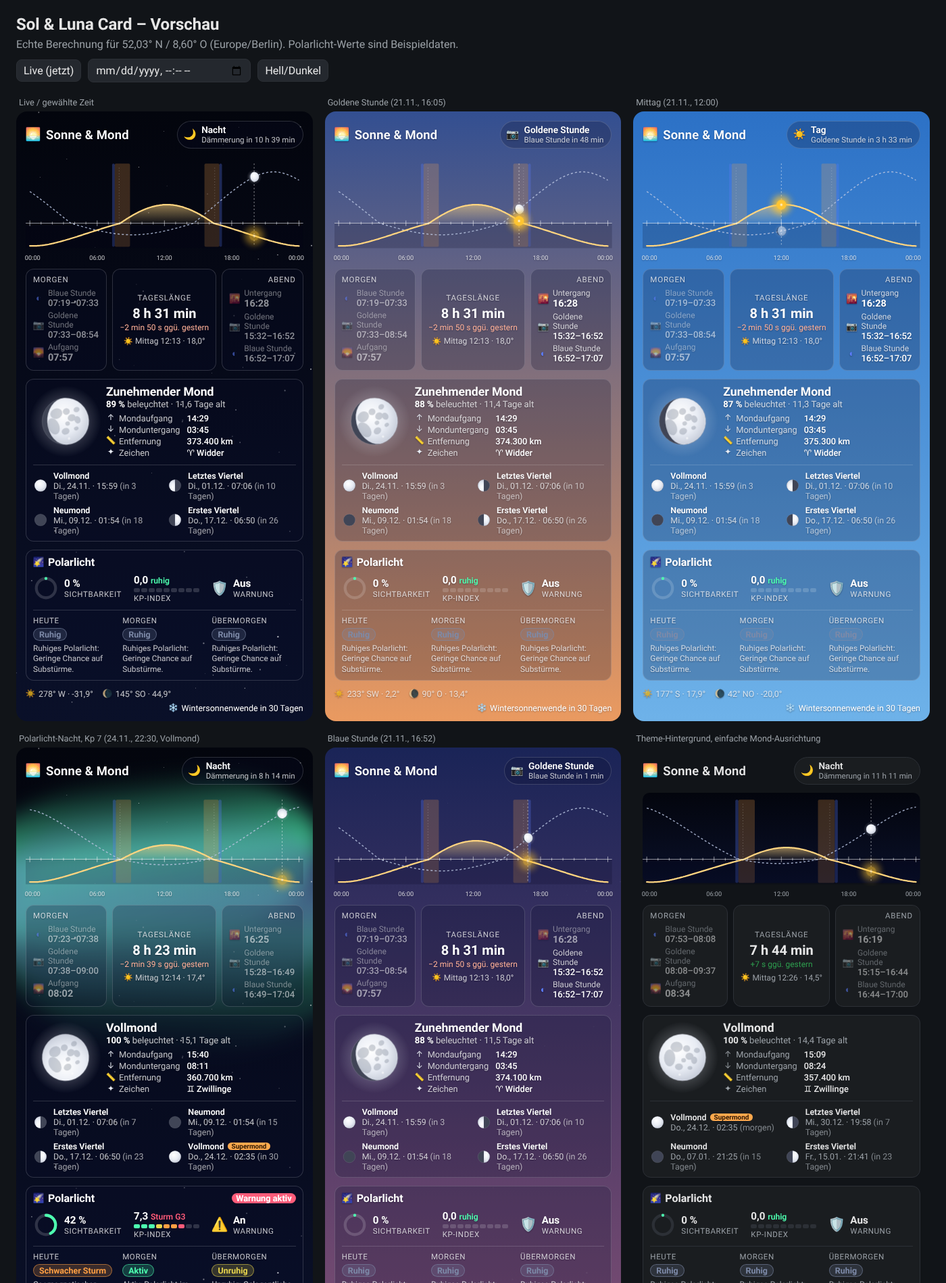
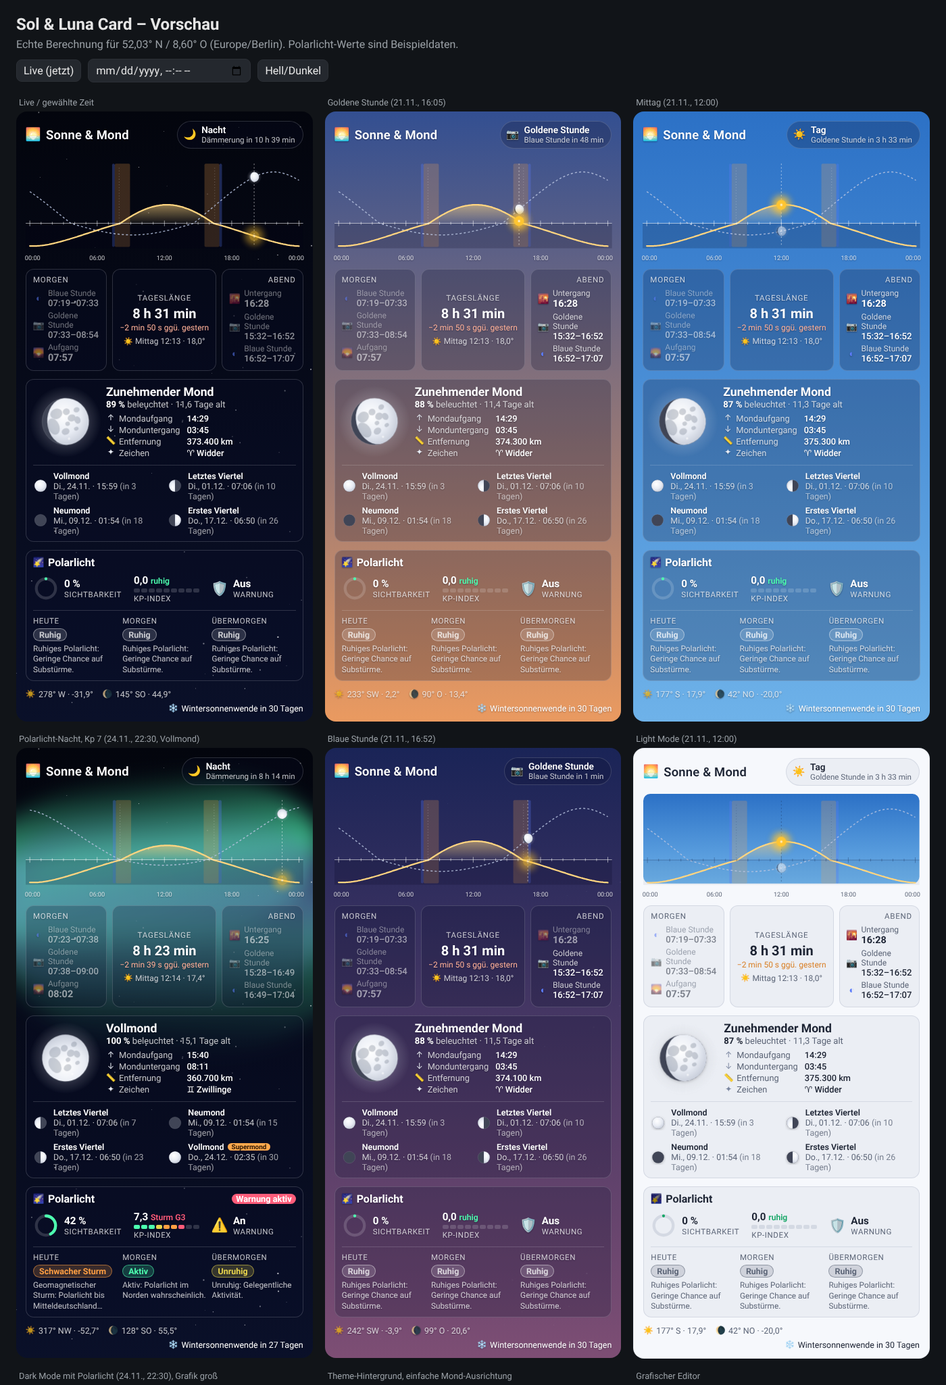
v1.1.0: Light- und Dark-Mode, Grafik-Größe, Himmelsverlauf und Auf-/Untergangslinien einstellbar
Claude-Session: https://claude.ai/code/session_01QFZMPRo5ZdLNuL4hiKKXFC

diff --git a/preview.html b/preview.html
@@ -27,7 +27,7 @@ customElements.define('ha-icon', class extends HTMLElement { static get observed
 (() => {
 'use strict';
 
-const VERSION = '1.0.0';
+const VERSION = '1.1.0';
 
 /* ====================================================================== *
  *  ASTRONOMIE                                                             *
@@ -246,7 +246,10 @@ const DEFAULTS = {
   show_next_phases: true,
   show_position: true,
   show_season: true,
-  background: 'sky',          // sky | theme
+  background: 'sky',          // sky | theme | light | dark
+  graph_size: 'normal',       // small | normal | large
+  graph_sky: true,            // Himmelsverlauf in der Grafik (bei theme/light/dark)
+  show_rise_lines: true,
   stars: true,
   animations: true,
   moon_orientation: 'sky',    // sky | simple
@@ -551,7 +554,8 @@ class SolLunaCard extends HTMLElement {
     const c = this._config;
     const { t } = this._lang();
     const F = this._fmt(D);
-    const sky = c.background !== 'theme';
+    const mode = ['sky', 'theme', 'light', 'dark'].includes(c.background) ? c.background : 'sky';
+    const sky = mode === 'sky';
     const [skyTop, skyBottom] = skyColors(D.sunNow.alt);
     const night = clamp((-D.sunNow.alt - 3) / 9, 0, 1);
     const anim = c.animations;
@@ -570,13 +574,13 @@ class SolLunaCard extends HTMLElement {
     const footer = (c.show_position || c.show_season) ? this._footerHtml(D, t, F) : '';
     const A = this._auroraData();
     const aurora = A ? this._auroraHtml(A, t, F) : '';
-    const auroraSky = A && sky && c.aurora_effect ? this._auroraSkyHtml(this._auroraIntensity(A), night) : '';
+    const auroraSky = A && (sky || mode === 'dark') && c.aurora_effect ? this._auroraSkyHtml(this._auroraIntensity(A) * (sky ? 1 : 0.7), night) : '';
 
-    const stars = sky && c.stars && night > 0 ? this._starsHtml(night, anim) : '';
+    const stars = (sky || mode === 'dark') && c.stars && night > 0 ? this._starsHtml(night * (sky ? 1 : 0.5), anim) : '';
 
     this.shadowRoot.innerHTML = `
       <style>${this._css()}</style>
-      <ha-card class="${sky ? 'sky' : 'theme'} ${anim ? 'anim' : ''}" style="
+      <ha-card class="${mode} ${anim ? 'anim' : ''}" style="
         --slc-sun:${esc(c.sun_color)}; --slc-moon:${esc(c.moon_color)}; --slc-golden:${esc(c.golden_color)};
         --slc-blue:${esc(c.blue_color)}; --slc-curve:${esc(c.curve_color)}; --slc-aurora:${esc(c.aurora_color)};
         ${sky ? `--slc-sky-top:${skyTop}; --slc-sky-bottom:${skyBottom};` : ''}">
@@ -724,7 +728,9 @@ class SolLunaCard extends HTMLElement {
 
   _graphHtml(D, t, F, sky, rot) {
     const c = this._config;
-    const W = 400, H = 150, padX = 6, top = 16, above = 80, below = 34;
+    const above = { small: 52, normal: 80, large: 110 }[c.graph_size] || 80;
+    const below = Math.round(above * 0.42);
+    const W = 400, padX = 6, top = 16, H = top + above + below + 20;
     const hy = top + above;
     const span = D.end - D.start;
     const x = (ms) => padX + (ms - D.start) / span * (W - 2 * padX);
@@ -770,11 +776,11 @@ class SolLunaCard extends HTMLElement {
     const sx = nowX, syv = y(D.sunNow.alt);
     const sunUp = D.sunNow.alt > -0.833;
     const mx = nowX, myv = y(D.moonNow.altTopo);
-    const lines = [D.sunrise, D.sunset].filter((v) => v != null).map((v) =>
+    const lines = !c.show_rise_lines ? '' : [D.sunrise, D.sunset].filter((v) => v != null).map((v) =>
       `<line x1="${x(v)}" x2="${x(v)}" y1="${top}" y2="${hy}" class="riseline"/>`).join('');
 
     const [st, sb] = skyColors(D.sunNow.alt);
-    const chartBg = sky ? '' : `<rect x="0" y="0" width="${W}" height="${hy + below}" rx="10" fill="url(#bgsky)"/>`;
+    const chartBg = sky || !c.graph_sky ? '' : `<rect x="0" y="0" width="${W}" height="${hy + below}" rx="10" fill="url(#bgsky)"/>`;
 
     return `
     <div class="graph">
@@ -926,6 +932,13 @@ class SolLunaCard extends HTMLElement {
     ha-card.sky { color:#fff; --slc-text:#fff; --slc-sub:rgba(255,255,255,.75); --slc-tile:rgba(8,14,40,.24); --slc-line:rgba(255,255,255,.16);
       text-shadow:0 1px 2px rgba(0,0,20,.35); border:none; background:transparent; }
     ha-card.theme { --slc-text:var(--primary-text-color); --slc-sub:var(--secondary-text-color); --slc-tile:rgba(127,127,127,.09); --slc-line:var(--divider-color, rgba(127,127,127,.25)); }
+    ha-card.light { --slc-text:#1c2333; --slc-sub:#5d6678; --slc-tile:rgba(30,50,90,.05); --slc-line:rgba(30,50,90,.11);
+      background:#f6f8fc; color:#1c2333; border:1px solid rgba(30,50,90,.08); }
+    ha-card.dark { --slc-text:#eef1f8; --slc-sub:#9aa3b8; --slc-tile:rgba(255,255,255,.045); --slc-line:rgba(255,255,255,.09);
+      background:#131722; color:#eef1f8; border:1px solid rgba(255,255,255,.05); }
+    .light .graph .horizon, .light .graph .tick { stroke:rgba(30,50,90,.35); }
+    .light .graph .nowline { stroke:rgba(30,50,90,.45); }
+    .light .graph .riseline { stroke:rgba(30,50,90,.25); }
     .skybg { position:absolute; inset:0; background:linear-gradient(180deg, var(--slc-sky-top) 0%, var(--slc-sky-bottom) 100%); transition:background 2s; }
     .stars { position:absolute; inset:0; pointer-events:none; }
     .stars circle { fill:#fff; }
@@ -950,7 +963,7 @@ class SolLunaCard extends HTMLElement {
     @keyframes pulse { 0%,100%{box-shadow:0 0 0 0 rgba(255,169,77,.0)} 50%{box-shadow:0 0 14px 2px rgba(255,169,77,.45)} }
     .graph svg { width:100%; display:block; overflow:visible; }
     .graph .below { fill:rgba(0,0,20,.18); }
-    .theme .graph .below { fill:rgba(0,0,20,.25); }
+    .theme .graph .below, .dark .graph .below { fill:rgba(0,0,20,.25); } .light .graph .below { fill:rgba(30,50,90,.06); }
     .graph .horizon { stroke:rgba(255,255,255,.55); stroke-width:1; }
     .graph .tick { stroke:rgba(255,255,255,.55); stroke-width:1; }
     .graph .axis { fill:var(--slc-sub); font-size:9px; text-anchor:middle; }
@@ -976,7 +989,9 @@ class SolLunaCard extends HTMLElement {
     .mid .big { font-size:1.25em; font-weight:700; color:var(--slc-text); white-space:nowrap; }
     .mid .delta { font-size:.75em; margin-top:2px; white-space:nowrap; }
     .mid .delta.up { color:#8ef0a8; } .mid .delta.down { color:#ffb199; }
-    .theme .mid .delta.up { color:var(--success-color, #2e9d4e); } .theme .mid .delta.down { color:var(--warning-color, #d9822b); }
+    .theme .mid .delta.up, .light .mid .delta.up { color:var(--success-color, #2e9d4e); } .theme .mid .delta.down, .light .mid .delta.down { color:var(--warning-color, #d9822b); }
+    .light .badge.micro { background:rgba(30,50,90,.15); }
+    .light .kpw, .light .ringfg, .light .ahead ha-icon { filter:brightness(.62) saturate(1.3); }
     .mid .noon { display:flex; align-items:center; gap:4px; font-size:.75em; color:var(--slc-sub); margin-top:6px; white-space:nowrap; }
     .mid .noon ha-icon { --mdc-icon-size:13px; width:13px; height:13px; color:var(--slc-sun); }
     .moonrow { display:flex; gap:12px; align-items:center; }
@@ -991,7 +1006,8 @@ class SolLunaCard extends HTMLElement {
     .grid2 > div:nth-child(odd) { display:flex; align-items:center; gap:5px; color:var(--slc-sub); }
     .grid2 .v { font-variant-numeric:tabular-nums; font-weight:500; color:var(--slc-text); }
     .grid2 ha-icon { --mdc-icon-size:14px; width:14px; height:14px; color:var(--slc-moon); }
-    .theme .grid2 ha-icon { color:var(--secondary-text-color); }
+    .theme .grid2 ha-icon { color:var(--secondary-text-color); } .light .grid2 ha-icon { color:#7a86a0; }
+    .light .phaseicon circle:first-of-type, .light .bigmoon { filter:drop-shadow(0 1px 2px rgba(0,0,0,.25)); }
     .dim { opacity:.6; font-weight:400; }
     .phases { display:grid; grid-template-columns:1fr 1fr; gap:6px 10px; margin-top:10px; padding-top:8px; border-top:1px solid var(--slc-line); }
     .ph { display:flex; align-items:center; gap:8px; font-size:.78em; min-width:0; }
@@ -1058,7 +1074,9 @@ const ED_STR = {
     show_moon_in_graph: 'Mondbahn in der Grafik', show_hour_bands: 'Goldene/Blaue Stunde markieren',
     show_sun_times: 'Sonnenzeiten & Tageslänge', show_moon: 'Mond-Details', show_next_phases: 'Nächste Mondphasen',
     show_position: 'Azimut & Höhe', show_season: 'Nächste Sonnenwende/Tagundnachtgleiche',
-    background: 'Hintergrund', bg_sky: 'Dynamischer Himmel', bg_theme: 'Theme-Hintergrund',
+    background: 'Hintergrund', bg_sky: 'Dynamischer Himmel', bg_theme: 'Theme-Hintergrund', bg_light: 'Hell (Light Mode)', bg_dark: 'Dunkel (Dark Mode)',
+    graph_size: 'Grafik-Größe', gs_small: 'Klein', gs_normal: 'Normal', gs_large: 'Groß',
+    graph_sky: 'Himmelsverlauf in der Grafik (bei Theme/Hell/Dunkel)', show_rise_lines: 'Linien bei Auf-/Untergang',
     stars: 'Sterne bei Nacht', animations: 'Animationen', moon_orientation: 'Mond-Ausrichtung',
     mo_sky: 'Wie am Himmel (gedreht)', mo_simple: 'Einfach (links/rechts)',
     sun_color: 'Sonne', moon_color: 'Mond', golden_color: 'Goldene Stunde', blue_color: 'Blaue Stunde',
@@ -1079,7 +1097,9 @@ const ED_STR = {
     show_moon_in_graph: 'Moon path in graph', show_hour_bands: 'Highlight golden/blue hour',
     show_sun_times: 'Sun times & day length', show_moon: 'Moon details', show_next_phases: 'Next moon phases',
     show_position: 'Azimuth & elevation', show_season: 'Next solstice/equinox',
-    background: 'Background', bg_sky: 'Dynamic sky', bg_theme: 'Theme background',
+    background: 'Background', bg_sky: 'Dynamic sky', bg_theme: 'Theme background', bg_light: 'Light mode', bg_dark: 'Dark mode',
+    graph_size: 'Graph size', gs_small: 'Small', gs_normal: 'Normal', gs_large: 'Large',
+    graph_sky: 'Sky gradient in graph (theme/light/dark)', show_rise_lines: 'Sunrise/sunset lines',
     stars: 'Stars at night', animations: 'Animations', moon_orientation: 'Moon orientation',
     mo_sky: 'As seen in the sky (rotated)', mo_simple: 'Simple (left/right)',
     sun_color: 'Sun', moon_color: 'Moon', golden_color: 'Golden hour', blue_color: 'Blue hour',
@@ -1156,8 +1176,10 @@ class SolLunaCardEditor extends HTMLElement {
         sel('time_format', [['auto', T.auto], ['24', '24 h'], ['12', '12 h']]) +
         num('refresh_period', '1', '60'), true)}
       ${sec(T.display, ['show_header', 'show_status', 'show_graph', 'show_moon_in_graph', 'show_hour_bands', 'show_sun_times', 'show_moon', 'show_next_phases', 'show_position', 'show_season'].map(sw).join(''))}
-      ${sec(T.design, sel('background', [['sky', T.bg_sky], ['theme', T.bg_theme]]) +
-        sel('moon_orientation', [['sky', T.mo_sky], ['simple', T.mo_simple]]) + sw('stars') + sw('animations'))}
+      ${sec(T.design, sel('background', [['sky', T.bg_sky], ['light', T.bg_light], ['dark', T.bg_dark], ['theme', T.bg_theme]]) +
+        sel('graph_size', [['small', T.gs_small], ['normal', T.gs_normal], ['large', T.gs_large]]) +
+        sel('moon_orientation', [['sky', T.mo_sky], ['simple', T.mo_simple]]) + `<span></span>` +
+        sw('graph_sky') + sw('show_rise_lines') + sw('stars') + sw('animations'))}
       ${sec(T.aurora, sw('show_aurora') + sw('aurora_effect') + AUR.map(ent).join('') + `<div class="hint">${esc(T.auroraHint)}</div>`)}
       ${sec(T.colors, ['sun_color', 'moon_color', 'golden_color', 'blue_color', 'curve_color', 'moon_curve_color', 'aurora_color'].map(col).join(''))}
       <datalist id="entlist"></datalist>
@@ -1240,6 +1262,8 @@ const DEMOS=[
  {cap:'Mittag (21.11., 12:00)', now:'2026-11-21T12:00:00+01:00', cfg:{}, aur:QUIET},
  {cap:'Polarlicht-Nacht, Kp 7 (24.11., 22:30, Vollmond)', now:'2026-11-24T22:30:00+01:00', cfg:{}, aur:STORM},
  {cap:'Blaue Stunde (21.11., 16:52)', now:'2026-11-21T16:52:00+01:00', cfg:{}, aur:QUIET},
+ {cap:'Light Mode (21.11., 12:00)', now:'2026-11-21T12:00:00+01:00', cfg:{background:'light'}, aur:QUIET},
+ {cap:'Dark Mode mit Polarlicht (24.11., 22:30), Grafik groß', now:'2026-11-24T22:30:00+01:00', cfg:{background:'dark',graph_size:'large'}, aur:STORM},
  {cap:'Theme-Hintergrund, einfache Mond-Ausrichtung', now:'2026-12-23T20:00:00+01:00', cfg:{background:'theme',moon_orientation:'simple'}, aur:QUIET},
 ];
 const grid=document.getElementById('grid'); const cards=[];

diff --git a/dist/sol-luna-card.js b/dist/sol-luna-card.js
@@ -5,7 +5,7 @@
 (() => {
 'use strict';
 
-const VERSION = '1.0.0';
+const VERSION = '1.1.0';
 
 /* ====================================================================== *
  *  ASTRONOMIE                                                             *
@@ -224,7 +224,10 @@ const DEFAULTS = {
   show_next_phases: true,
   show_position: true,
   show_season: true,
-  background: 'sky',          // sky | theme
+  background: 'sky',          // sky | theme | light | dark
+  graph_size: 'normal',       // small | normal | large
+  graph_sky: true,            // Himmelsverlauf in der Grafik (bei theme/light/dark)
+  show_rise_lines: true,
   stars: true,
   animations: true,
   moon_orientation: 'sky',    // sky | simple
@@ -529,7 +532,8 @@ class SolLunaCard extends HTMLElement {
     const c = this._config;
     const { t } = this._lang();
     const F = this._fmt(D);
-    const sky = c.background !== 'theme';
+    const mode = ['sky', 'theme', 'light', 'dark'].includes(c.background) ? c.background : 'sky';
+    const sky = mode === 'sky';
     const [skyTop, skyBottom] = skyColors(D.sunNow.alt);
     const night = clamp((-D.sunNow.alt - 3) / 9, 0, 1);
     const anim = c.animations;
@@ -548,13 +552,13 @@ class SolLunaCard extends HTMLElement {
     const footer = (c.show_position || c.show_season) ? this._footerHtml(D, t, F) : '';
     const A = this._auroraData();
     const aurora = A ? this._auroraHtml(A, t, F) : '';
-    const auroraSky = A && sky && c.aurora_effect ? this._auroraSkyHtml(this._auroraIntensity(A), night) : '';
+    const auroraSky = A && (sky || mode === 'dark') && c.aurora_effect ? this._auroraSkyHtml(this._auroraIntensity(A) * (sky ? 1 : 0.7), night) : '';
 
-    const stars = sky && c.stars && night > 0 ? this._starsHtml(night, anim) : '';
+    const stars = (sky || mode === 'dark') && c.stars && night > 0 ? this._starsHtml(night * (sky ? 1 : 0.5), anim) : '';
 
     this.shadowRoot.innerHTML = `
       <style>${this._css()}</style>
-      <ha-card class="${sky ? 'sky' : 'theme'} ${anim ? 'anim' : ''}" style="
+      <ha-card class="${mode} ${anim ? 'anim' : ''}" style="
         --slc-sun:${esc(c.sun_color)}; --slc-moon:${esc(c.moon_color)}; --slc-golden:${esc(c.golden_color)};
         --slc-blue:${esc(c.blue_color)}; --slc-curve:${esc(c.curve_color)}; --slc-aurora:${esc(c.aurora_color)};
         ${sky ? `--slc-sky-top:${skyTop}; --slc-sky-bottom:${skyBottom};` : ''}">
@@ -702,7 +706,9 @@ class SolLunaCard extends HTMLElement {
 
   _graphHtml(D, t, F, sky, rot) {
     const c = this._config;
-    const W = 400, H = 150, padX = 6, top = 16, above = 80, below = 34;
+    const above = { small: 52, normal: 80, large: 110 }[c.graph_size] || 80;
+    const below = Math.round(above * 0.42);
+    const W = 400, padX = 6, top = 16, H = top + above + below + 20;
     const hy = top + above;
     const span = D.end - D.start;
     const x = (ms) => padX + (ms - D.start) / span * (W - 2 * padX);
@@ -748,11 +754,11 @@ class SolLunaCard extends HTMLElement {
     const sx = nowX, syv = y(D.sunNow.alt);
     const sunUp = D.sunNow.alt > -0.833;
     const mx = nowX, myv = y(D.moonNow.altTopo);
-    const lines = [D.sunrise, D.sunset].filter((v) => v != null).map((v) =>
+    const lines = !c.show_rise_lines ? '' : [D.sunrise, D.sunset].filter((v) => v != null).map((v) =>
       `<line x1="${x(v)}" x2="${x(v)}" y1="${top}" y2="${hy}" class="riseline"/>`).join('');
 
     const [st, sb] = skyColors(D.sunNow.alt);
-    const chartBg = sky ? '' : `<rect x="0" y="0" width="${W}" height="${hy + below}" rx="10" fill="url(#bgsky)"/>`;
+    const chartBg = sky || !c.graph_sky ? '' : `<rect x="0" y="0" width="${W}" height="${hy + below}" rx="10" fill="url(#bgsky)"/>`;
 
     return `
     <div class="graph">
@@ -904,6 +910,13 @@ class SolLunaCard extends HTMLElement {
     ha-card.sky { color:#fff; --slc-text:#fff; --slc-sub:rgba(255,255,255,.75); --slc-tile:rgba(8,14,40,.24); --slc-line:rgba(255,255,255,.16);
       text-shadow:0 1px 2px rgba(0,0,20,.35); border:none; background:transparent; }
     ha-card.theme { --slc-text:var(--primary-text-color); --slc-sub:var(--secondary-text-color); --slc-tile:rgba(127,127,127,.09); --slc-line:var(--divider-color, rgba(127,127,127,.25)); }
+    ha-card.light { --slc-text:#1c2333; --slc-sub:#5d6678; --slc-tile:rgba(30,50,90,.05); --slc-line:rgba(30,50,90,.11);
+      background:#f6f8fc; color:#1c2333; border:1px solid rgba(30,50,90,.08); }
+    ha-card.dark { --slc-text:#eef1f8; --slc-sub:#9aa3b8; --slc-tile:rgba(255,255,255,.045); --slc-line:rgba(255,255,255,.09);
+      background:#131722; color:#eef1f8; border:1px solid rgba(255,255,255,.05); }
+    .light .graph .horizon, .light .graph .tick { stroke:rgba(30,50,90,.35); }
+    .light .graph .nowline { stroke:rgba(30,50,90,.45); }
+    .light .graph .riseline { stroke:rgba(30,50,90,.25); }
     .skybg { position:absolute; inset:0; background:linear-gradient(180deg, var(--slc-sky-top) 0%, var(--slc-sky-bottom) 100%); transition:background 2s; }
     .stars { position:absolute; inset:0; pointer-events:none; }
     .stars circle { fill:#fff; }
@@ -928,7 +941,7 @@ class SolLunaCard extends HTMLElement {
     @keyframes pulse { 0%,100%{box-shadow:0 0 0 0 rgba(255,169,77,.0)} 50%{box-shadow:0 0 14px 2px rgba(255,169,77,.45)} }
     .graph svg { width:100%; display:block; overflow:visible; }
     .graph .below { fill:rgba(0,0,20,.18); }
-    .theme .graph .below { fill:rgba(0,0,20,.25); }
+    .theme .graph .below, .dark .graph .below { fill:rgba(0,0,20,.25); } .light .graph .below { fill:rgba(30,50,90,.06); }
     .graph .horizon { stroke:rgba(255,255,255,.55); stroke-width:1; }
     .graph .tick { stroke:rgba(255,255,255,.55); stroke-width:1; }
     .graph .axis { fill:var(--slc-sub); font-size:9px; text-anchor:middle; }
@@ -954,7 +967,9 @@ class SolLunaCard extends HTMLElement {
     .mid .big { font-size:1.25em; font-weight:700; color:var(--slc-text); white-space:nowrap; }
     .mid .delta { font-size:.75em; margin-top:2px; white-space:nowrap; }
     .mid .delta.up { color:#8ef0a8; } .mid .delta.down { color:#ffb199; }
-    .theme .mid .delta.up { color:var(--success-color, #2e9d4e); } .theme .mid .delta.down { color:var(--warning-color, #d9822b); }
+    .theme .mid .delta.up, .light .mid .delta.up { color:var(--success-color, #2e9d4e); } .theme .mid .delta.down, .light .mid .delta.down { color:var(--warning-color, #d9822b); }
+    .light .badge.micro { background:rgba(30,50,90,.15); }
+    .light .kpw, .light .ringfg, .light .ahead ha-icon { filter:brightness(.62) saturate(1.3); }
     .mid .noon { display:flex; align-items:center; gap:4px; font-size:.75em; color:var(--slc-sub); margin-top:6px; white-space:nowrap; }
     .mid .noon ha-icon { --mdc-icon-size:13px; width:13px; height:13px; color:var(--slc-sun); }
     .moonrow { display:flex; gap:12px; align-items:center; }
@@ -969,7 +984,8 @@ class SolLunaCard extends HTMLElement {
     .grid2 > div:nth-child(odd) { display:flex; align-items:center; gap:5px; color:var(--slc-sub); }
     .grid2 .v { font-variant-numeric:tabular-nums; font-weight:500; color:var(--slc-text); }
     .grid2 ha-icon { --mdc-icon-size:14px; width:14px; height:14px; color:var(--slc-moon); }
-    .theme .grid2 ha-icon { color:var(--secondary-text-color); }
+    .theme .grid2 ha-icon { color:var(--secondary-text-color); } .light .grid2 ha-icon { color:#7a86a0; }
+    .light .phaseicon circle:first-of-type, .light .bigmoon { filter:drop-shadow(0 1px 2px rgba(0,0,0,.25)); }
     .dim { opacity:.6; font-weight:400; }
     .phases { display:grid; grid-template-columns:1fr 1fr; gap:6px 10px; margin-top:10px; padding-top:8px; border-top:1px solid var(--slc-line); }
     .ph { display:flex; align-items:center; gap:8px; font-size:.78em; min-width:0; }
@@ -1036,7 +1052,9 @@ const ED_STR = {
     show_moon_in_graph: 'Mondbahn in der Grafik', show_hour_bands: 'Goldene/Blaue Stunde markieren',
     show_sun_times: 'Sonnenzeiten & Tageslänge', show_moon: 'Mond-Details', show_next_phases: 'Nächste Mondphasen',
     show_position: 'Azimut & Höhe', show_season: 'Nächste Sonnenwende/Tagundnachtgleiche',
-    background: 'Hintergrund', bg_sky: 'Dynamischer Himmel', bg_theme: 'Theme-Hintergrund',
+    background: 'Hintergrund', bg_sky: 'Dynamischer Himmel', bg_theme: 'Theme-Hintergrund', bg_light: 'Hell (Light Mode)', bg_dark: 'Dunkel (Dark Mode)',
+    graph_size: 'Grafik-Größe', gs_small: 'Klein', gs_normal: 'Normal', gs_large: 'Groß',
+    graph_sky: 'Himmelsverlauf in der Grafik (bei Theme/Hell/Dunkel)', show_rise_lines: 'Linien bei Auf-/Untergang',
     stars: 'Sterne bei Nacht', animations: 'Animationen', moon_orientation: 'Mond-Ausrichtung',
     mo_sky: 'Wie am Himmel (gedreht)', mo_simple: 'Einfach (links/rechts)',
     sun_color: 'Sonne', moon_color: 'Mond', golden_color: 'Goldene Stunde', blue_color: 'Blaue Stunde',
@@ -1057,7 +1075,9 @@ const ED_STR = {
     show_moon_in_graph: 'Moon path in graph', show_hour_bands: 'Highlight golden/blue hour',
     show_sun_times: 'Sun times & day length', show_moon: 'Moon details', show_next_phases: 'Next moon phases',
     show_position: 'Azimuth & elevation', show_season: 'Next solstice/equinox',
-    background: 'Background', bg_sky: 'Dynamic sky', bg_theme: 'Theme background',
+    background: 'Background', bg_sky: 'Dynamic sky', bg_theme: 'Theme background', bg_light: 'Light mode', bg_dark: 'Dark mode',
+    graph_size: 'Graph size', gs_small: 'Small', gs_normal: 'Normal', gs_large: 'Large',
+    graph_sky: 'Sky gradient in graph (theme/light/dark)', show_rise_lines: 'Sunrise/sunset lines',
     stars: 'Stars at night', animations: 'Animations', moon_orientation: 'Moon orientation',
     mo_sky: 'As seen in the sky (rotated)', mo_simple: 'Simple (left/right)',
     sun_color: 'Sun', moon_color: 'Moon', golden_color: 'Golden hour', blue_color: 'Blue hour',
@@ -1134,8 +1154,10 @@ class SolLunaCardEditor extends HTMLElement {
         sel('time_format', [['auto', T.auto], ['24', '24 h'], ['12', '12 h']]) +
         num('refresh_period', '1', '60'), true)}
       ${sec(T.display, ['show_header', 'show_status', 'show_graph', 'show_moon_in_graph', 'show_hour_bands', 'show_sun_times', 'show_moon', 'show_next_phases', 'show_position', 'show_season'].map(sw).join(''))}
-      ${sec(T.design, sel('background', [['sky', T.bg_sky], ['theme', T.bg_theme]]) +
-        sel('moon_orientation', [['sky', T.mo_sky], ['simple', T.mo_simple]]) + sw('stars') + sw('animations'))}
+      ${sec(T.design, sel('background', [['sky', T.bg_sky], ['light', T.bg_light], ['dark', T.bg_dark], ['theme', T.bg_theme]]) +
+        sel('graph_size', [['small', T.gs_small], ['normal', T.gs_normal], ['large', T.gs_large]]) +
+        sel('moon_orientation', [['sky', T.mo_sky], ['simple', T.mo_simple]]) + `<span></span>` +
+        sw('graph_sky') + sw('show_rise_lines') + sw('stars') + sw('animations'))}
       ${sec(T.aurora, sw('show_aurora') + sw('aurora_effect') + AUR.map(ent).join('') + `<div class="hint">${esc(T.auroraHint)}</div>`)}
       ${sec(T.colors, ['sun_color', 'moon_color', 'golden_color', 'blue_color', 'curve_color', 'moon_curve_color', 'aurora_color'].map(col).join(''))}
       <datalist id="entlist"></datalist>

diff --git a/README.md b/README.md
@@ -6,6 +6,7 @@ Eine Home-Assistant-Karte für **Sonne, Mond und Himmel**: Tagesbahn von Sonne u
 
 ## Funktionen
 
+- **Vier Hintergründe** – dynamischer Himmel, Light Mode, Dark Mode oder Theme-Hintergrund
 - **Dynamischer Himmel** – Hintergrundfarbe folgt der Sonnenhöhe (Tag → goldene Stunde → blaue Stunde → Nacht), nachts mit funkelnden Sternen und gelegentlicher Sternschnuppe
 - **Himmelsbahn-Grafik** – Sonnen- und Mondbahn über 24 h, aktuelle Position, goldene/blaue Stunde als farbige Bänder
 - **Status mit Countdown** – z. B. „Goldene Stunde · Blaue Stunde in 12 min“
@@ -15,7 +16,7 @@ Eine Home-Assistant-Karte für **Sonne, Mond und Himmel**: Tagesbahn von Sonne u
 - **Nächste Mondphasen** mit Datum, Uhrzeit und **Supermond-/Minimond-Kennzeichnung**
 - **Jahreszeiten** – Countdown zur nächsten Sonnenwende bzw. Tagundnachtgleiche (Südhalbkugel wird berücksichtigt)
 - **Polarlicht** – Sichtbarkeit, Kp-Index (Skala 0–9), Warnung und 3-Tage-Vorhersage; bei hoher Aktivität erscheint nachts ein animiertes Nordlicht im Kartenhimmel
-- **Grafischer Editor** – alle Optionen inkl. Farben und Entitäten ohne YAML einstellbar
+- **Grafischer Editor** – wirklich alle Optionen inkl. Farben und Entitäten ohne YAML einstellbar
 - Deutsch & Englisch, 12/24 h, keine externen Abhängigkeiten, alle Berechnungen lokal im Browser
 
 ## Installation
@@ -47,7 +48,10 @@ Vollständiges Beispiel:
 type: custom:sol-luna-card
 title: Sonne & Mond
 icon: mdi:weather-sunset
-background: sky            # sky | theme
+background: sky            # sky | light | dark | theme
+graph_size: normal         # small | normal | large
+graph_sky: true
+show_rise_lines: true
 moon_orientation: sky      # sky (wie am Himmel gedreht) | simple
 stars: true
 animations: true
@@ -79,9 +83,12 @@ refresh_period: 60
 | `show_aurora` | `true` | Polarlicht-Bereich (erscheint nur, wenn Entitäten gefunden werden) |
 | `aurora_effect` | `true` | Animiertes Nordlicht im Nachthimmel bei Aktivität |
 | `show_position` / `show_season` | `true` | Azimut & Höhe / nächste Sonnenwende |
-| `background` | `sky` | `sky` = dynamischer Himmel, `theme` = Theme-Hintergrund |
+| `background` | `sky` | `sky` = dynamischer Himmel, `light` = heller Modus, `dark` = dunkler Modus, `theme` = Theme-Hintergrund |
+| `graph_size` | `normal` | Höhe der Grafik: `small`, `normal`, `large` |
+| `graph_sky` | `true` | Himmelsverlauf in der Grafik (bei `light`, `dark`, `theme`) |
+| `show_rise_lines` | `true` | Senkrechte Linien bei Sonnenauf- und -untergang |
 | `moon_orientation` | `sky` | `sky` = so gedreht wie am Himmel, `simple` = links/rechts |
-| `stars` / `animations` | `true` | Sterne / Animationen |
+| `stars` / `animations` | `true` | Sterne (bei `sky` und `dark`) / Animationen |
 | `language` | `auto` | `auto`, `de`, `en` |
 | `time_format` | `auto` | `auto`, `24`, `12` |
 | `refresh_period` | `60` | Aktualisierung in Sekunden |
